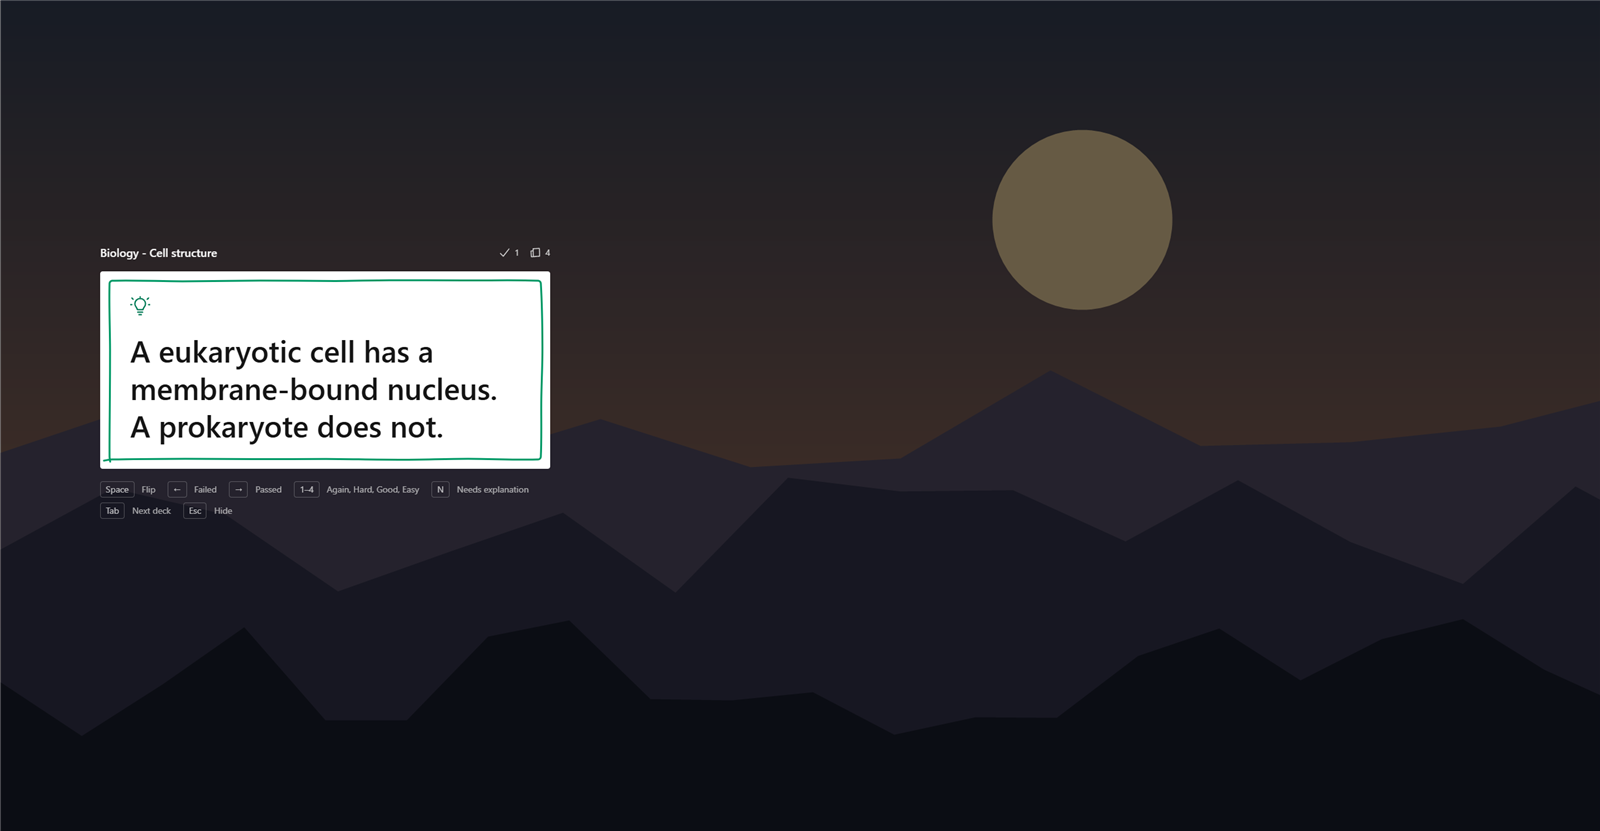
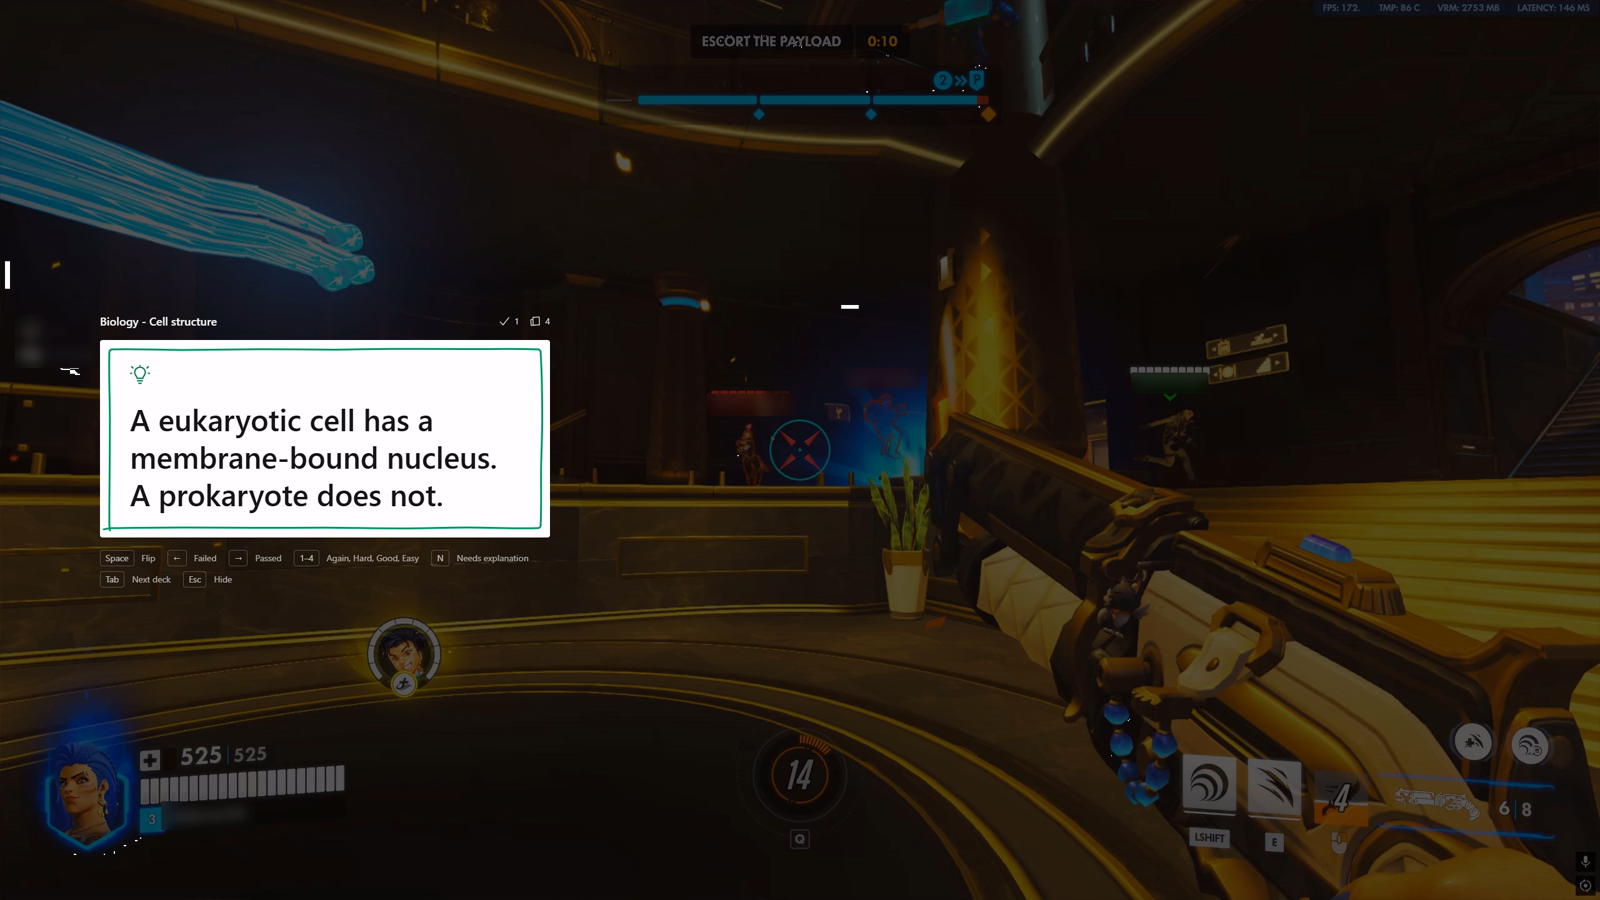
Refresh README screenshots and attribution
Updates README copy and image alt text to reflect new in-game screenshots (Valorant, Apex Legends, Overwatch 2), including clearer accessibility descriptions. Also revises the screenshot disclaimer and legal attribution to explicitly cover gameplay shown in the images.

diff --git a/README.md b/README.md
@@ -14,9 +14,9 @@ Dead with a minute to wait? Press a key, recall a card, and get back to the game
 [![CI](https://github.com/dimslalom/downtime/actions/workflows/ci.yml/badge.svg)](https://github.com/dimslalom/downtime/actions/workflows/ci.yml)
 [![MIT license](https://img.shields.io/badge/license-MIT-blue)](LICENSE)
 
-<img src="docs/screenshots/peek.png" alt="A small flashcard at the side of the screen, with the game still in full view" width="820" />
+<img src="docs/screenshots/peek.png" alt="A small flashcard at the side of a Valorant match, with the round still in view" width="820" />
 
-<sub>Peek keeps the game in view. The background here is a mock scene, not a real game.</sub>
+<sub>Peek keeps the round in view while you're dead. Captured over real Valorant footage, with player names blurred.</sub>
 
 </div>
 
@@ -67,14 +67,14 @@ On many laptops, function keys also need <kbd>Fn</kbd>.
 <table>
   <tr>
     <td width="50%"><img src="docs/screenshots/library.png" alt="The home screen with a deck library" /></td>
-    <td width="50%"><img src="docs/screenshots/rest.png" alt="A tick after grading, offering one more card" /></td>
+    <td width="50%"><img src="docs/screenshots/rest.png" alt="A tick after grading, offering one more card, over Apex Legends" /></td>
   </tr>
   <tr>
     <td align="center">Your library</td>
     <td align="center">After a grade, take one more or carry on</td>
   </tr>
   <tr>
-    <td width="50%"><img src="docs/screenshots/full-screen.png" alt="A large card over a dimmed game" /></td>
+    <td width="50%"><img src="docs/screenshots/full-screen.png" alt="A large card over a dimmed Overwatch 2 match" /></td>
     <td width="50%"><img src="docs/screenshots/settings.png" alt="Settings for overlay style and keys" /></td>
   </tr>
   <tr>
@@ -140,4 +140,4 @@ Issues and pull requests are welcome. See [CONTRIBUTING.md](CONTRIBUTING.md).
 
 [MIT](LICENSE)
 
-Downtime isn't affiliated with or endorsed by Riot Games, Blizzard Entertainment, Valve, Electronic Arts, Respawn Entertainment or Overwolf. Game names belong to their owners.
+Downtime isn't affiliated with or endorsed by Riot Games, Blizzard Entertainment, Valve, Electronic Arts, Respawn Entertainment or Overwolf. Game names and the gameplay shown in the screenshots belong to their owners.
